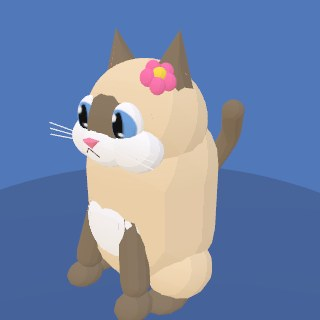
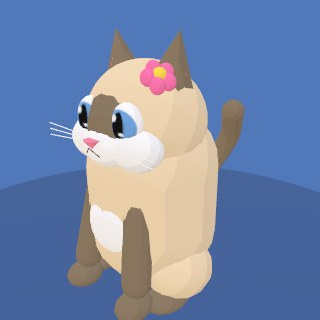
Relax sit-pose leg lean and shrink chest patches
The inward lean read as pinched knock-knees from the front; 0.22 -> 0.12
rad keeps the tops buried in the chest (the surface at the new top x is
still 0.04 deeper than the leg's front face) while the stance looks
natural. Chest patches shrink (plain chest 0.84 -> 0.75, tuxedo bib
1.0 -> 0.92 scale) so the legs no longer carve through their edges.
Catalog thumbnails regenerated.

Claude-Session: https://claude.ai/code/session_017fyz1DfGtQ1NoLSq3UX5Bd

Changed region(s): [[0.2188, 0.5938, 0.5, 0.875]]

diff --git a/src/models.js b/src/models.js
@@ -624,7 +624,7 @@ const ARM_POSES = {
   // the TOP toward the body midline — the chest bulges most at x0, so an
   // inward-leaning top tucks fully under the surface instead of standing
   // proud of the flatter surface out at shoulder x.
-  sit: { armR: 0.19, armRot: -0.18, armLen: 0.95, armLean: 0.22, armPos: [0, -0.41, 0.27], pawPos: [0, -1.16, 0.42], pawScale: [1.05, 0.8, 1.3], beans: false },
+  sit: { armR: 0.19, armRot: -0.18, armLen: 0.95, armLean: 0.12, armPos: [0, -0.41, 0.27], pawPos: [0, -1.16, 0.42], pawScale: [1.05, 0.8, 1.3], beans: false },
   // Standing on the hind legs like a curious meerkat-cat: front paws dangle at
   // the sides, hind feet planted under the body (built in the stand block below).
   stand: { armR: 0.17, armRot: -0.06, armPos: [0, -0.5, 0.04], pawPos: [0, -1.0, 0.16], pawScale: [1, 0.85, 1.2], beans: false },
@@ -718,7 +718,7 @@ export function createCat(furColor = 0xf0a830, opts = {}) {
   // grazed the faceted body and its intersection read as a jagged bow tie.)
   const chest = new THREE.Mesh(new THREE.SphereGeometry(0.62, 26, 20), chestMat);
   chest.position.set(0, 0.8, hasBib ? 0.6 : 0.64);
-  chest.scale.set(hasBib ? 1.0 : 0.84, hasBib ? 1.0 : 0.84, 0.5);
+  chest.scale.set(hasBib ? 0.92 : 0.75, hasBib ? 0.92 : 0.75, 0.5);
   catStatic.push(chest);
 
   // Front paws — posed for the scenario (opts.pose):
